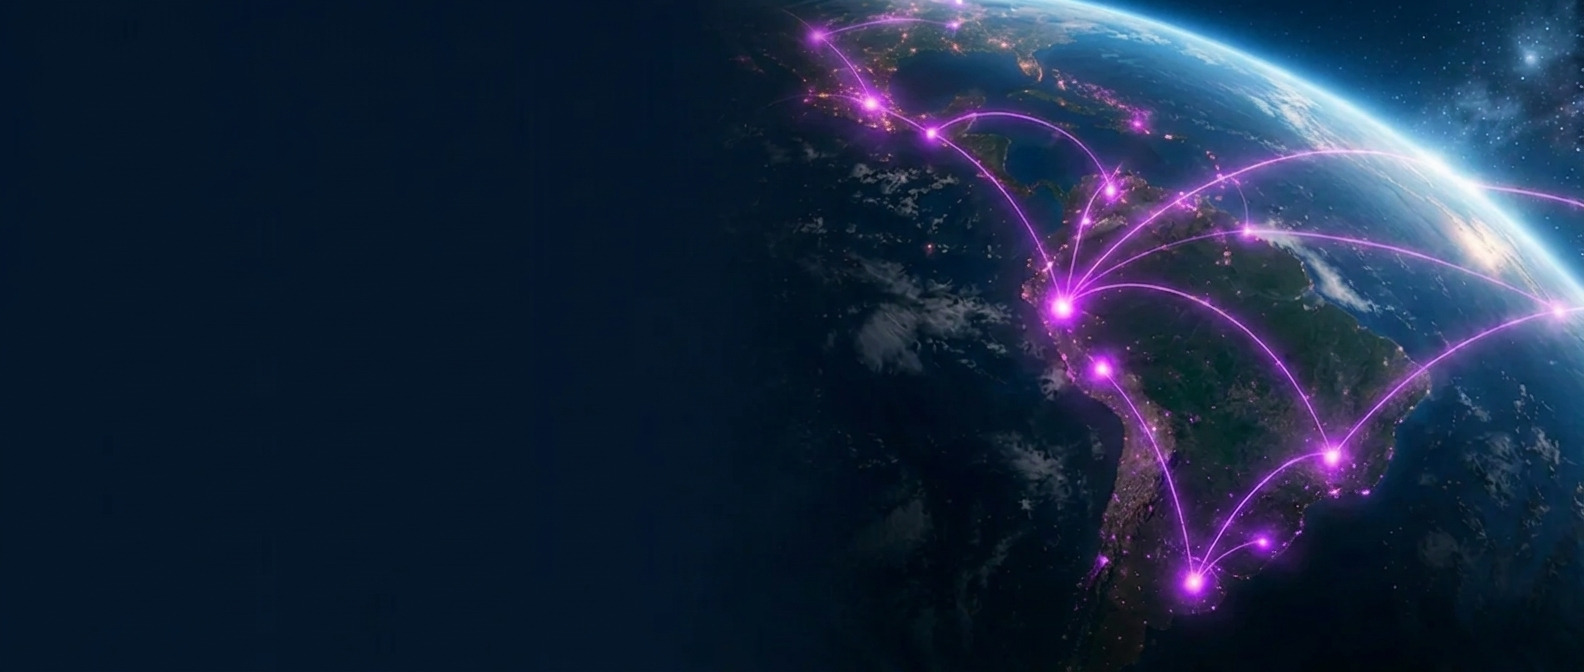
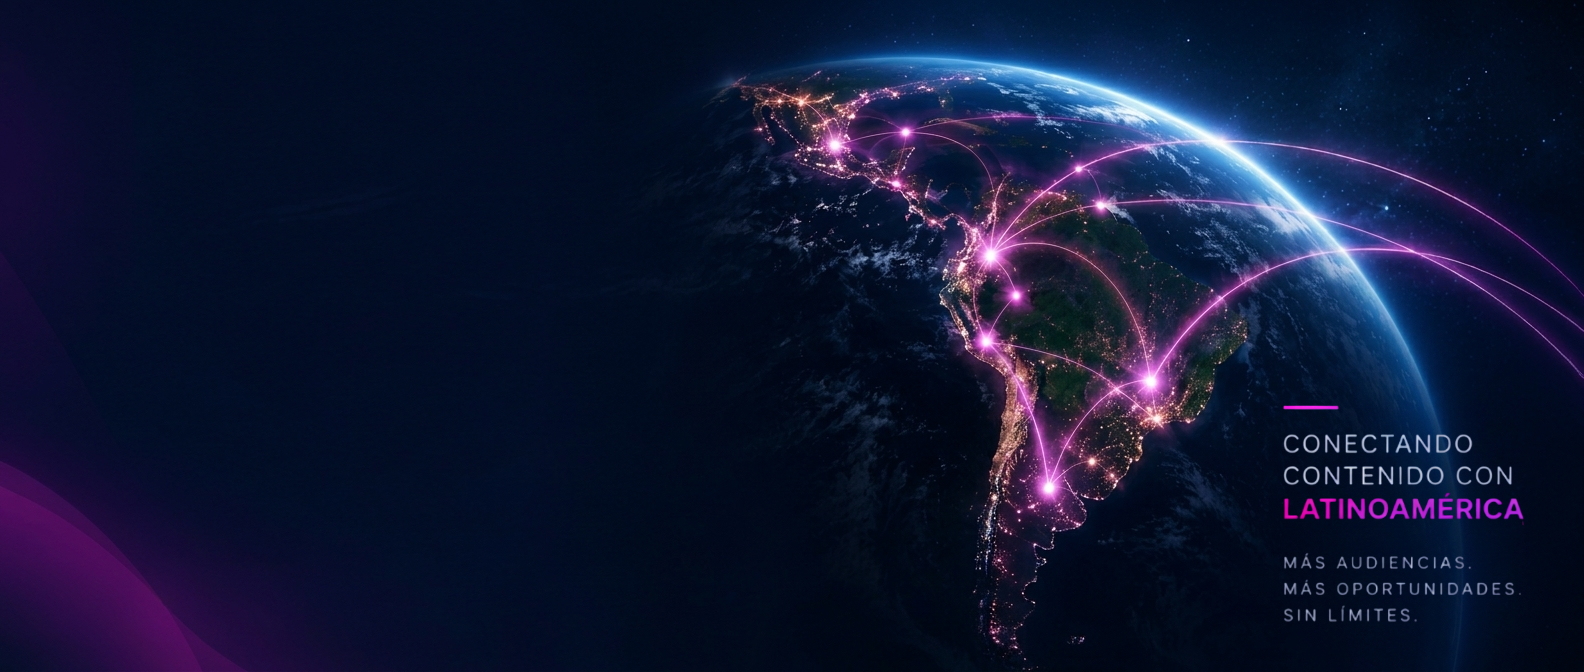
carrier cambios

diff --git a/src/app/servicios/mic-carrier/page.tsx b/src/app/servicios/mic-carrier/page.tsx
@@ -18,7 +18,7 @@ const OFFER = [
       </svg>
     ),
     title: 'Transporte de Señales IP',
-    desc: 'Recepción y entrega de señales mediante infraestructura profesional, punto a punto.',
+    desc: 'Transportamos sus señales vía IP con estabilidad, seguridad y calidad desde el origen hasta el destino.',
   },
   {
     color: FUCSIA,
@@ -29,7 +29,7 @@ const OFFER = [
       </svg>
     ),
     title: 'Distribución Multipunto',
-    desc: 'Una señal, múltiples destinos. Escale su entrega a tantos operadores como necesite.',
+    desc: 'Una misma señal, múltiples destinos. Amplíe su distribución de forma flexible y escalable.',
   },
   {
     color: MORADO,
@@ -39,7 +39,7 @@ const OFFER = [
       </svg>
     ),
     title: 'Monitoreo 24/7',
-    desc: 'Supervisión permanente de las señales, con alertas y respuesta inmediata ante incidencias.',
+    desc: 'Supervisión continua de sus señales para detectar y atender incidencias rápidamente.',
   },
   {
     color: AZUL,
@@ -49,7 +49,7 @@ const OFFER = [
       </svg>
     ),
     title: 'Soporte Especializado',
-    desc: 'Acompañamiento técnico durante la implementación y la operación de su transporte.',
+    desc: 'Asistencia técnica durante la implementación y operación de su servicio de transporte.',
   },
 ];
 
@@ -184,10 +184,8 @@ export default function MicCarrierPage() {
               <span className="text-[clamp(36px,4.7vw,60px)] font-extrabold tracking-tight text-white">CARRIER</span>
             </div>
 
-            <h1 className="text-[clamp(39px,4.9vw,62px)] font-bold leading-[1.12] tracking-[-0.025em] mb-5">
-              <span className="bg-gradient-to-r from-[#E8078B] via-[#841F89] to-[#193595] bg-clip-text text-transparent">
-                Transportamos tu señal sin fronteras
-              </span>
+            <h1 className="text-[clamp(39px,4.9vw,62px)] font-bold leading-[1.12] tracking-[-0.025em] mb-5 text-[#E8078B]">
+              Transportamos tu señal sin fronteras
             </h1>
             <p className="text-[22px] text-white/78 leading-relaxed mb-8">
               Conectamos canales de televisión con operadores mediante infraestructura IP segura, estable y de alto rendimiento.
@@ -214,10 +212,10 @@ export default function MicCarrierPage() {
         <div className="max-w-[1240px] mx-auto relative">
           <div className="max-w-[760px] mb-14">
             <span
-              className="inline-flex items-center gap-2 text-[18px] font-semibold tracking-[0.14em] uppercase text-[#E8078B] mb-3"
-              style={{ textShadow: '0 2px 10px rgba(0,0,0,0.55)' }}
+              className="inline-flex items-center gap-2 text-[19px] font-extrabold tracking-[0.14em] uppercase text-white mb-3"
+              style={{ textShadow: '0 2px 12px rgba(0,0,0,0.65)' }}
             >
-              <span className="w-6 h-[3px] bg-[#E8078B] rounded-full" />
+              <span className="w-6 h-[3px] bg-white rounded-full" />
               ¿Qué ofrecemos?
             </span>
             <h2
@@ -235,19 +233,32 @@ export default function MicCarrierPage() {
                 initial={{ opacity: 0, y: 20 }}
                 whileInView={{ opacity: 1, y: 0 }}
                 viewport={{ once: true }}
-                whileHover={{ y: -6 }}
                 transition={{ duration: 0.4, delay: i * 0.08 }}
-                className="bg-white rounded-[18px] p-6 hover:shadow-[0_16px_36px_rgba(0,0,0,0.3)] transition-shadow relative overflow-hidden"
-                style={{ borderTop: `3px solid ${f.color}` }}
+                className="group h-72 [perspective:1200px] cursor-pointer"
               >
-                <div
-                  className="w-20 h-20 rounded-[12px] grid place-items-center mb-4"
-                  style={{ background: `${f.color}18`, color: f.color }}
-                >
-                  {f.icon}
+                <div className="relative w-full h-full transition-transform duration-500 ease-out [transform-style:preserve-3d] group-hover:[transform:rotateY(180deg)] group-active:[transform:rotateY(180deg)]">
+                  {/* Frente: ícono + título */}
+                  <div
+                    className="absolute inset-0 [backface-visibility:hidden] bg-white rounded-[18px] p-6 flex flex-col items-center justify-center text-center gap-4 shadow-[0_8px_20px_rgba(0,0,0,0.12)]"
+                    style={{ borderTop: `3px solid ${f.color}` }}
+                  >
+                    <div
+                      className="w-20 h-20 rounded-[12px] grid place-items-center"
+                      style={{ background: `${f.color}18`, color: f.color }}
+                    >
+                      {f.icon}
+                    </div>
+                    <h3 className="text-[23px] font-bold text-[#0a1133]">{f.title}</h3>
+                  </div>
+
+                  {/* Reverso: definición sobre panel fucsia */}
+                  <div
+                    className="absolute inset-0 [backface-visibility:hidden] [transform:rotateY(180deg)] bg-[#E8078B] rounded-[18px] p-6 flex flex-col items-center justify-center text-center gap-3 shadow-[0_8px_20px_rgba(0,0,0,0.25)]"
+                  >
+                    <h3 className="text-[19px] font-bold text-white">{f.title}</h3>
+                    <p className="text-[16px] text-white/90 leading-relaxed">{f.desc}</p>
+                  </div>
                 </div>
-                <h3 className="text-[23px] font-bold text-[#0a1133] mb-2">{f.title}</h3>
-                <p className="text-[20px] text-[#6a7196] leading-relaxed">{f.desc}</p>
               </motion.div>
             ))}
           </div>
